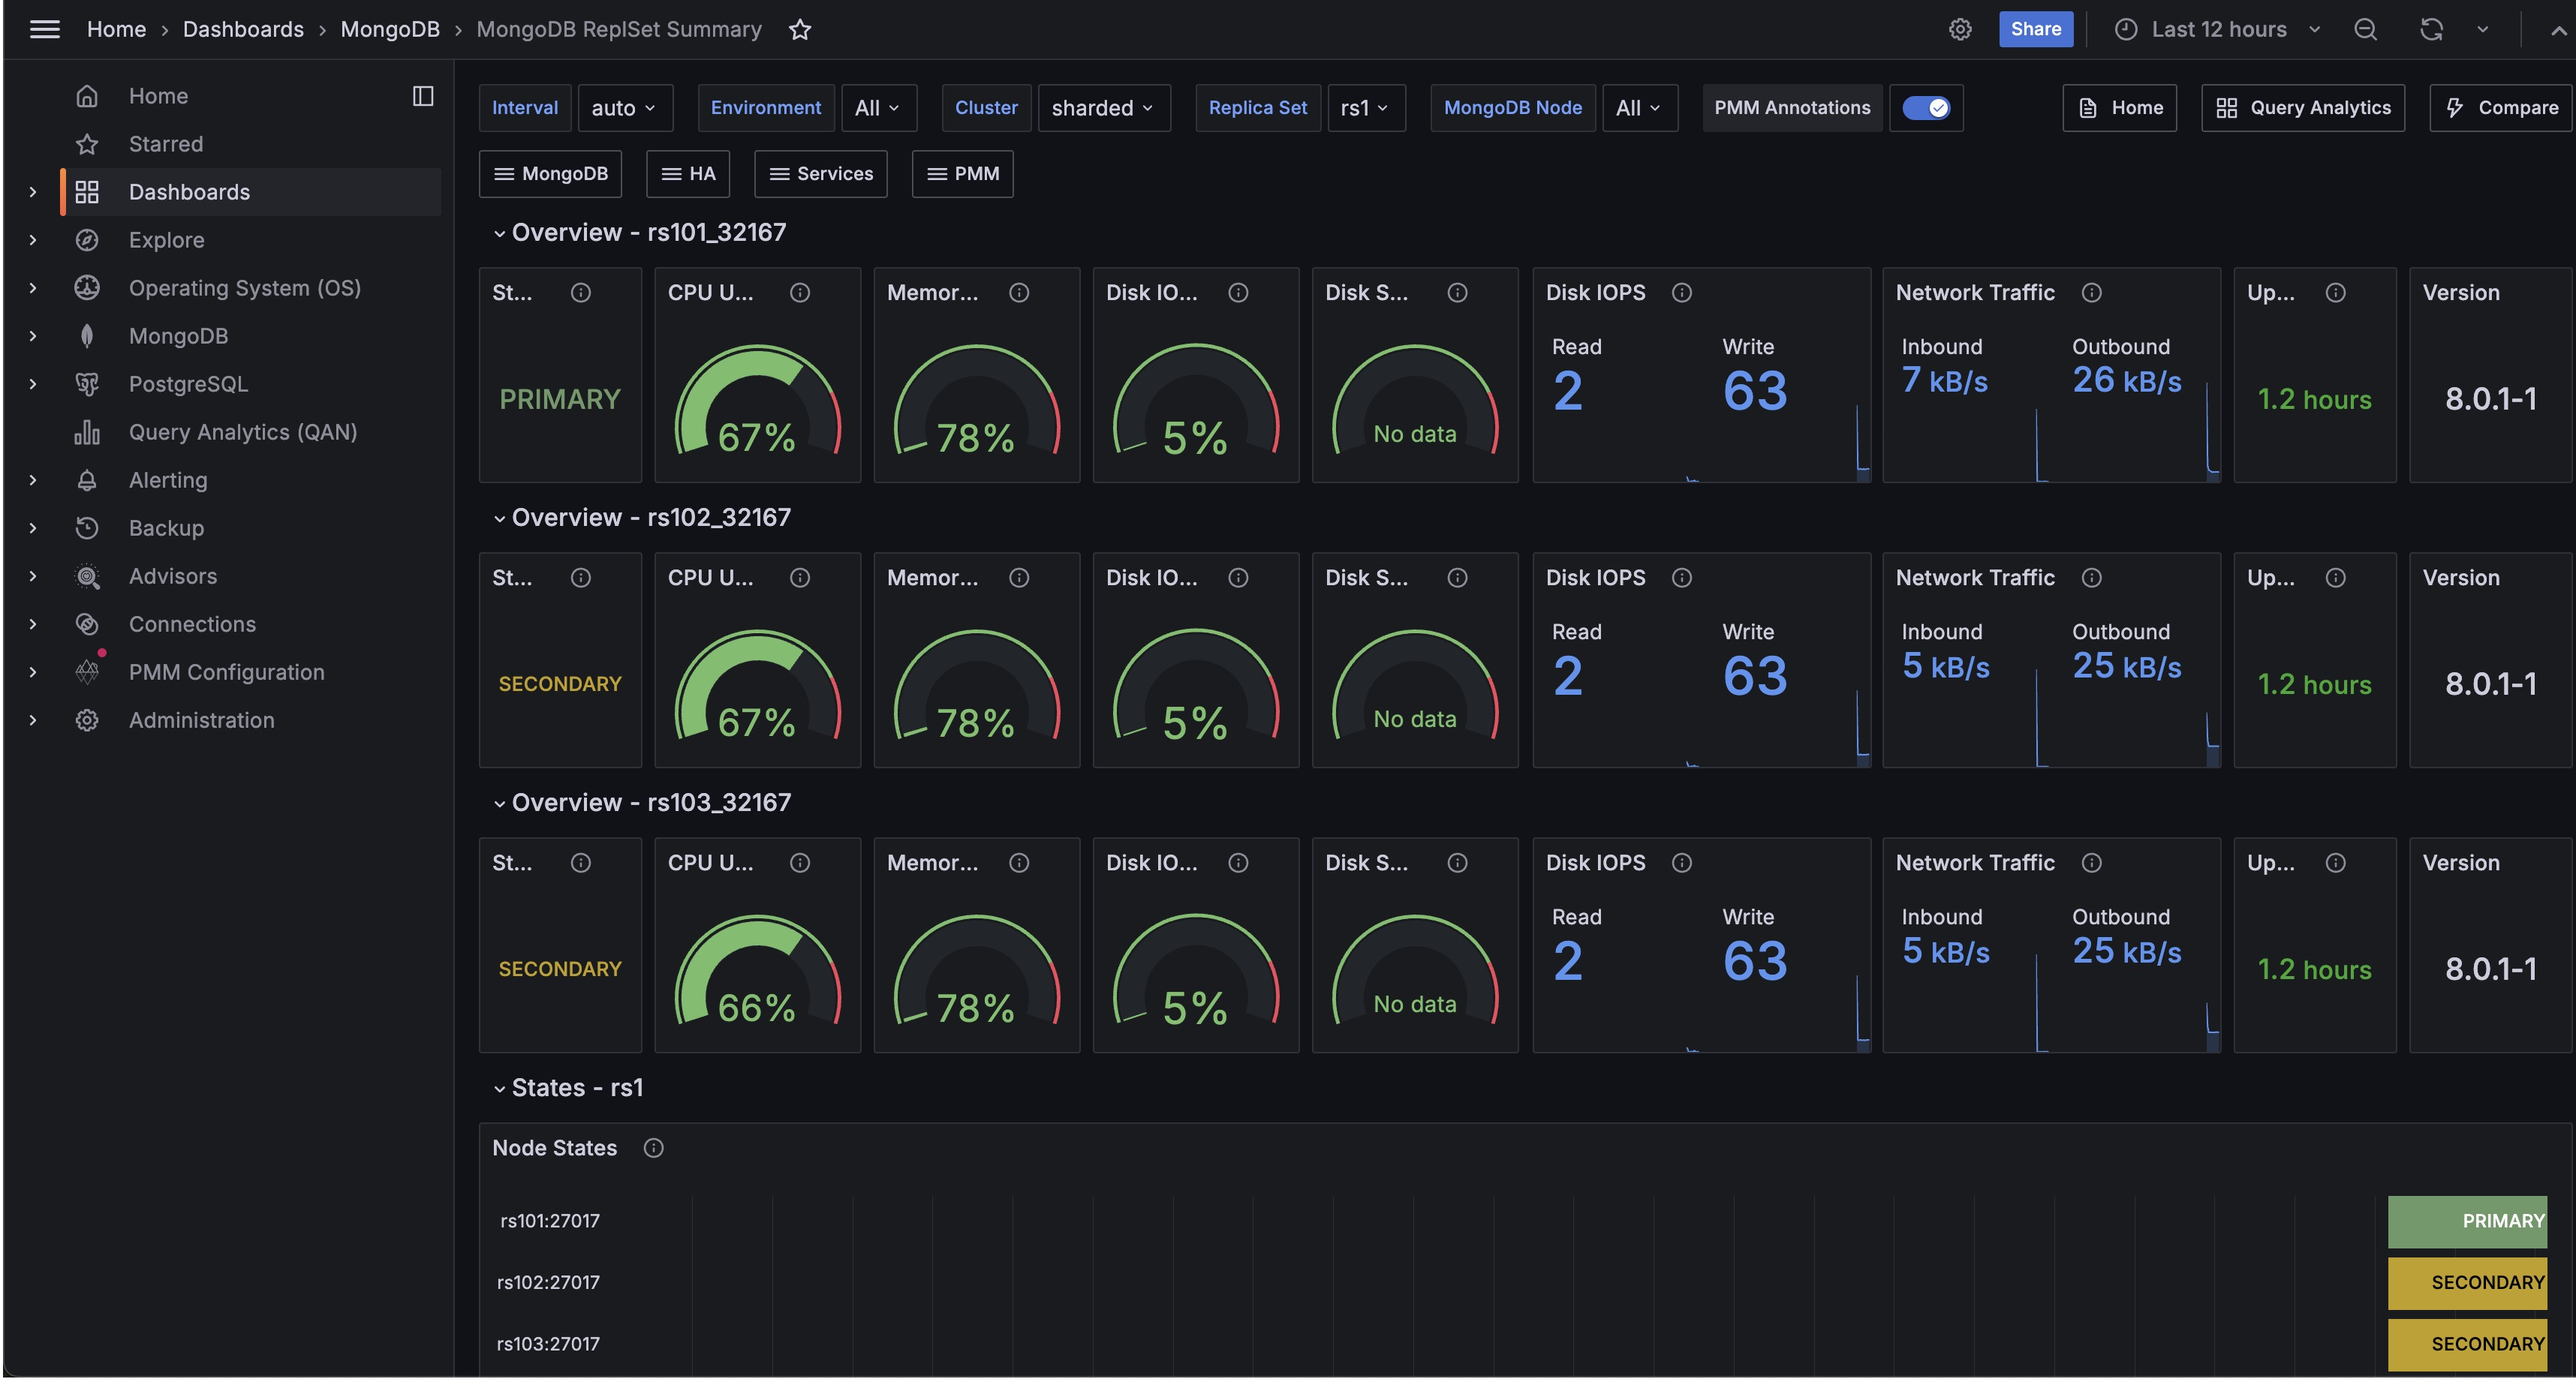
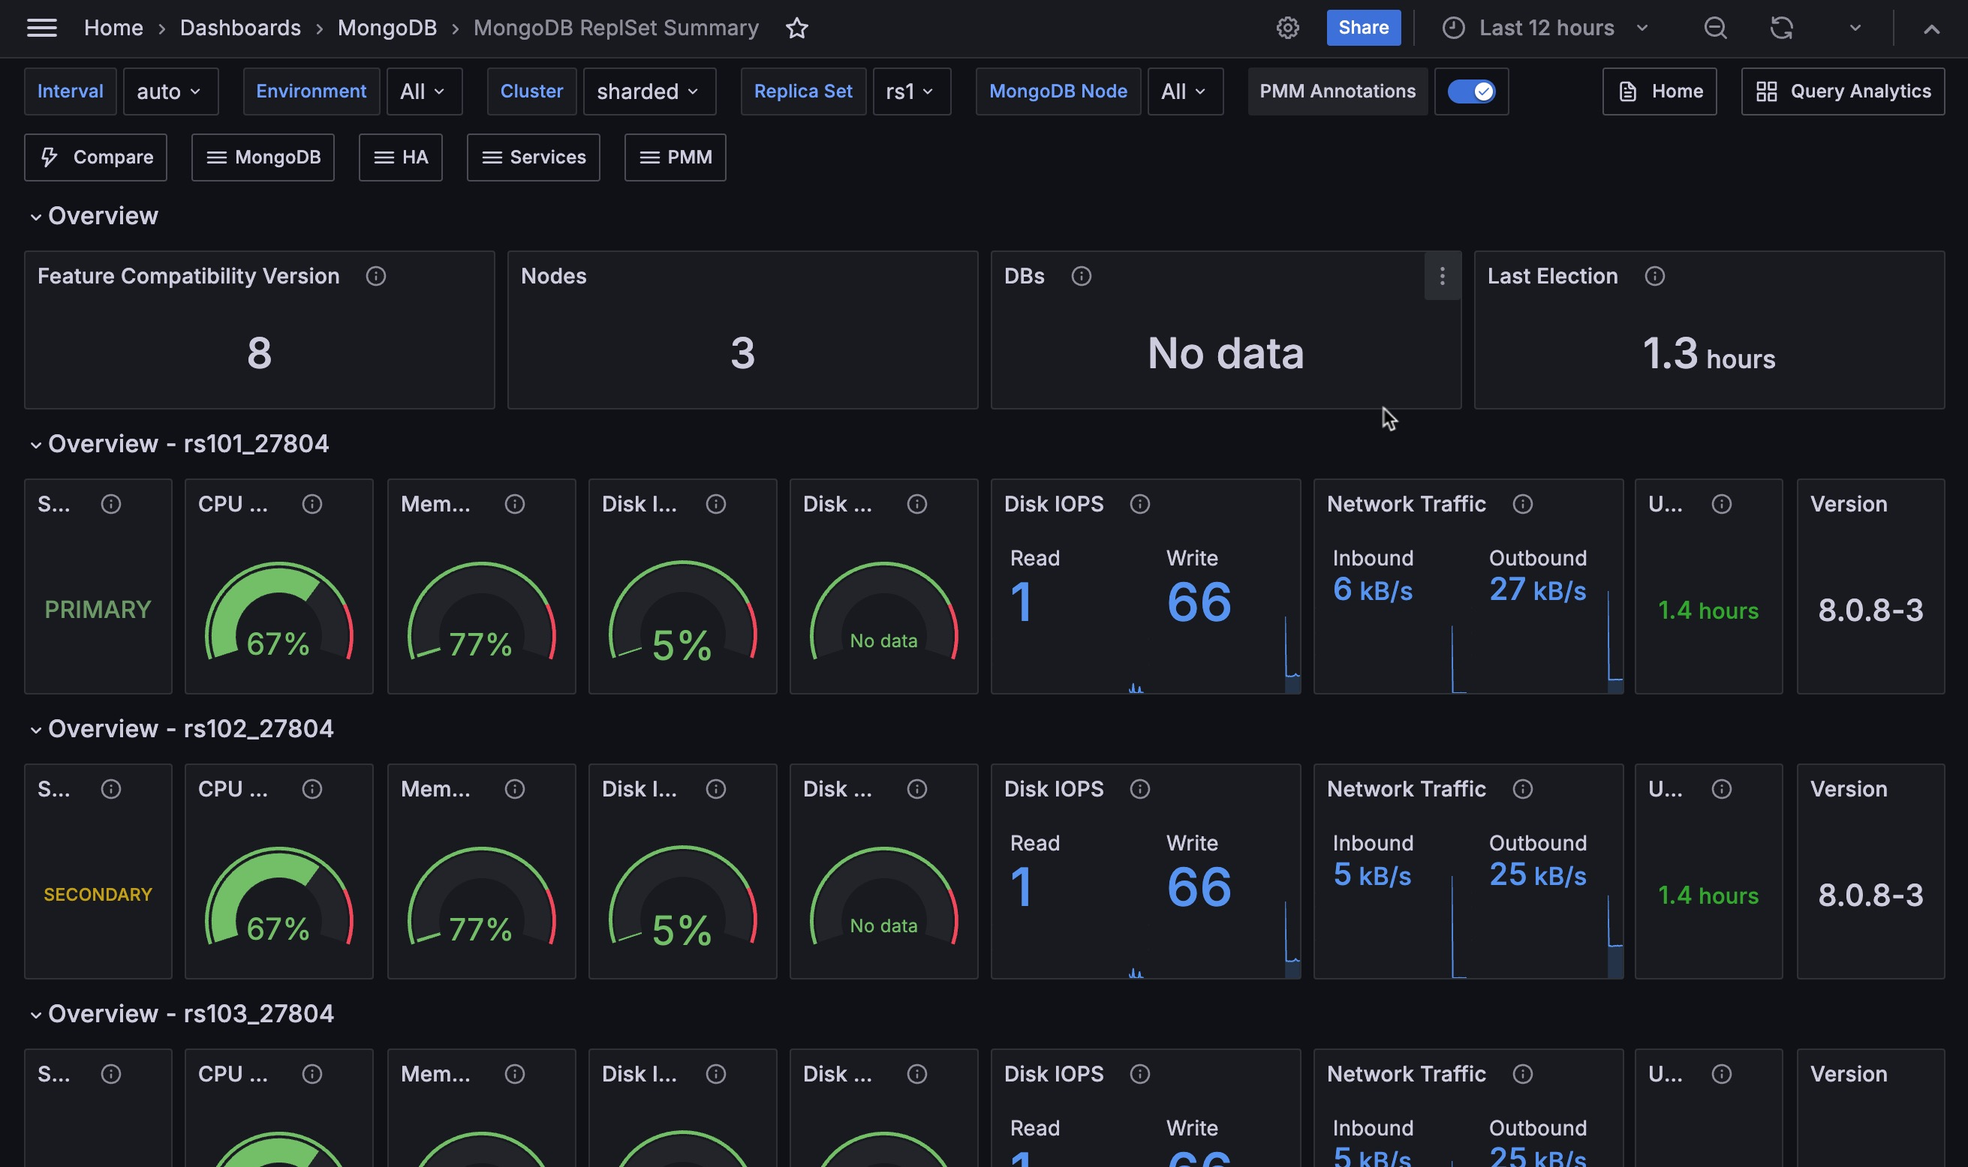
added screenshots and topic desc

diff --git a/documentation/docs/reference/dashboards/dashboard-mongodb-replset-summary.md b/documentation/docs/reference/dashboards/dashboard-mongodb-replset-summary.md
@@ -5,7 +5,43 @@
 ## Overview
 Displays essential data for individual nodes, such as their role, CPU usage, memory consumption, disk space, network traffic, uptime, and the current MongoDB version.
 
-## Node States
+### Feature Compatibility Version
+Displays the Feature Compatibility Version (FCV) currently active in your MongoDB deployment. The FCV controls which database features are available and affects data file format compatibility between MongoDB versions.
+
+This panel helps you confirm that your cluster is running the expected FCV—especially useful after upgrades, when the FCV may lag behind the MongoDB binary version.
+
+Monitoring FCV is important when planning upgrades or downgrades, as setting a newer FCV can enable advanced features but may prevent rolling back to older MongoDB versions.
+
+
+### CPU Usage
+Shows CPU usage as a percentage from 0% to 100%. It updates every minute, turning from green to red when usage exceeds 80%. This helps quickly spot high CPU load, which could affect system performance, and monitor how hard the CPU is working at a glance.
+
+### Memory Used
+Displays the percentage of total system memory currently in use. It updates regularly, showing green up to 80% of usage and red beyond that threshold.
+
+Use this for a quick visual indicator of memory consumption to monitor available memory without swapping as it's an easy way to assess how close the system is to its memory limits.
+
+### Disk IO Utilization
+Shows how busy the disk is handling read/write requests. The meter turns red above 80%, warning of potential slowdowns. It updates regularly, giving administrators a quick way to check if the disk is keeping up with demand or if it's becoming a bottleneck in system performance.
+
+### Disk Space Utilization
+Shows how much of the total disk space is currently in use. The meter turns red when usage exceeds 80%, warning of low free space. It updates regularly, giving you a quick way to check if the disk is nearing capacity. This helps prevent "disk full" errors that could disrupt services or system operation.
+
+### Disk IOPS
+Shows how many read and write operations the disk performs each second. The blue color helps spot spikes in disk activity. These spikes could mean the disk is struggling to keep up, which might slow down the system. It's a quick way for you to check if the disk is working too hard.
+
+### Network Traffic
+Combines both incoming (received) and outgoing (transmitted) data, excluding local traffic. It gives you a quick view of overall network activity, helping spot unusual spikes or drops in data flow that might affect system performance.
+
+### Uptime
+Shows how long the system has been running without a restart. As uptime increases, the color changes from red to orange to green, giving a quick visual indicator of system stability. Red indicates very recent restarts (less than 5 minutes), orange shows short uptimes (5 minutes to 1 hour), and green represents longer uptimes (over 1 hour). This helps you easily spot recent system restarts or confirm continuous operation.
+
+### Version
+Displays the current version of MongoDB running on the system. This information is crucial for ensuring the system is running the intended version and for quickly identifying any nodes that might need updates.
+
+## States
+
+### Node States
 Shows the state timeline of MongoDB replica set members during the selected time range. Each node's state (PRIMARY, SECONDARY, ARBITER, etc.) is color-coded for easy monitoring, with green indicating healthy states and red showing potential issues. Use this to track role changes and identify stability problems across your replica set.
 
 ## Details

diff --git a/documentation/docs/release-notes/3.2.0.md b/documentation/docs/release-notes/3.2.0.md
@@ -56,9 +56,11 @@ PMM now supports connecting to external ClickHouse servers using authenticated c
 
 
 ### Feature Compatibility Version (FCV) panel in MongoDB dashboards
-PMM now shows the current MongoDB Feature Compatibility Version (FCV) in the Replica Set and Cluster Summary dashboards. This helps you quickly see if your cluster is running the expected FCV—especially after upgrades, when the FCV might not match the MongoDB version yet.
+PMM now shows the current MongoDB Feature Compatibility Version (FCV) in the  **MongoDB Replica Set** and **MongoDB Sharded Cluster Summary** dashboards. 
 
-[![FCV panels](../images/FCV_panel.png)
+This panel helps you quickly see if your cluster is running the expected FCV—especially after upgrades, when the FCV might not match the MongoDB version yet.
+
+![FCV panels](../images/FCV_panel.png)
 
 ### Label-based access control for Query Analytics
 Query Analytics (QAN)| now supports label-based access control (LBAC), enabling fine-grained, role-based visibility into query data. Users only see the databases and services permitted by their roles—filter options are automatically restricted based on labels.

diff --git a/documentation/docs/reference/dashboards/dashboard-mongodb-cluster-summary.md b/documentation/docs/reference/dashboards/dashboard-mongodb-cluster-summary.md
@@ -12,6 +12,16 @@ This dashboard provides a comprehensive view of your MongoDB sharded cluster's p
 
 For MongoS (Router) specific monitoring, see the [MongoDB Router Summary](dashboard-mongodb-router-summary.md) dashboard.
 
+## Overview 
+
+### Feature Compatibility Version
+
+Displays the Feature Compatibility Version (FCV) currently active in your MongoDB deployment. The FCV controls which database features are available and affects data file format compatibility between MongoDB versions.
+
+This panel helps you confirm that your cluster is running the expected FCV—especially useful after upgrades, when the FCV may lag behind the MongoDB binary version.
+
+Monitoring FCV is important when planning upgrades or downgrades, as setting a newer FCV can enable advanced features but may prevent rolling back to older MongoDB versions.
+
 ### QPS of Services in Shard
 
 Displays the Queries Per Second (QPS) for each shard and the config server replica set in your MongoDB cluster. It shows the rate of operations (excluding commands) for each component, helping you quickly assess the query load distribution across your sharded environment.
